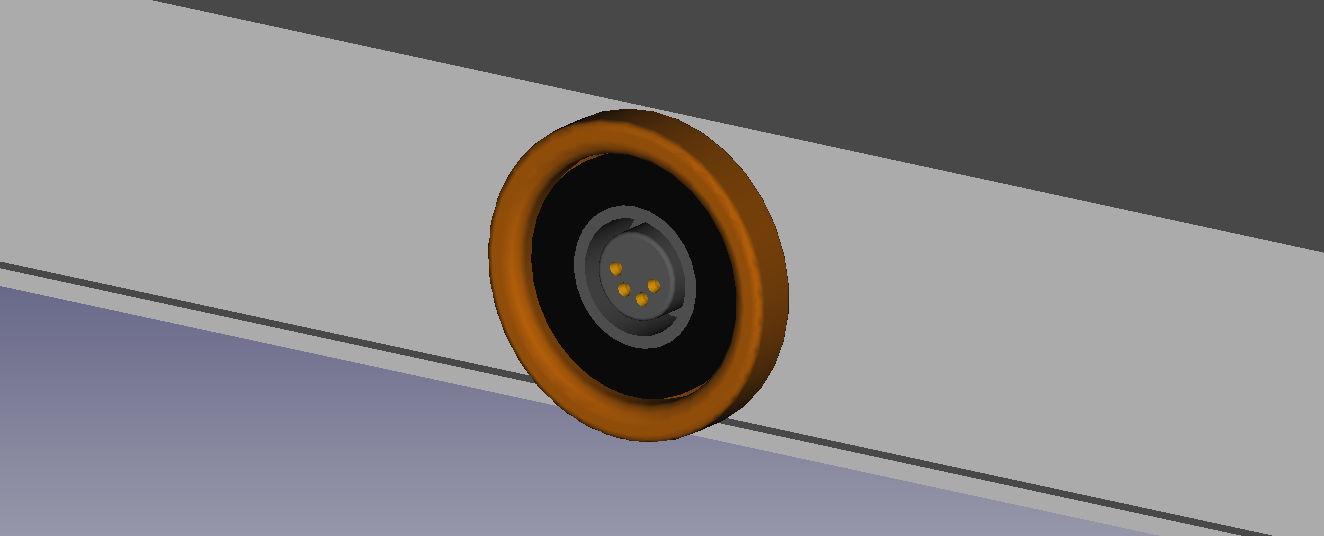
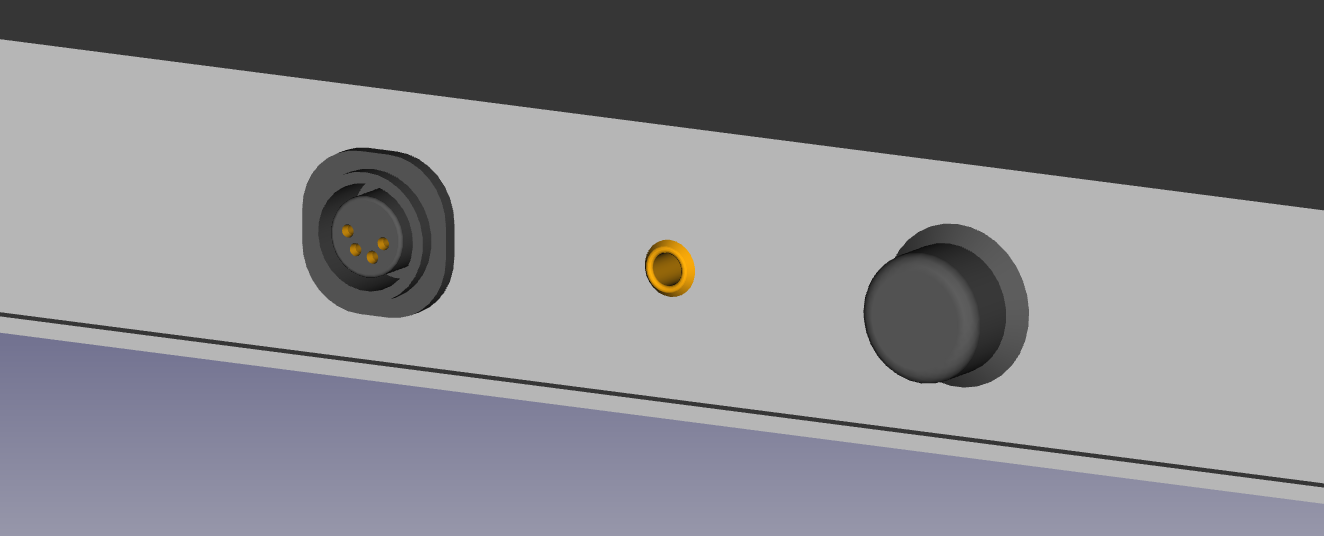
Ajout d'une prise TRS

Changed region(s): [[0.0, 0.0, 1.0, 1.0], [0.6503, 0.4179, 0.7742, 0.7463], [0.6503, 0.2687, 1.0, 0.4776]]

diff --git a/amplificateur/casque_stereo.md b/amplificateur/casque_stereo.md
@@ -16,11 +16,12 @@ title: Amplificateur pour casque stéréo
 
 * Préamplifier et amplifier le signal analogique stéréo balancé
 
-## Sortie
+## Sorties
 
-* Prise XLR-4 (4 broches)
+* Prise XLR-4 (balancée)
+* Prise TRS de 6.3 mm (non balancée)
 
 ## Design suggéré
 
 {% include img_design.html ind=1 alt="Deux entrées XLR" src="images/headphone_back.png" %}
-{% include img_design.html ind=2 alt="Une sortie XLR-4 au centre du bouton de volume" src="images/headphone_front.png" %}
+{% include img_design.html ind=2 alt="Une sortie XLR-4, une sortie TRS de 6.3 mm et un bouton de volume" src="images/headphone_front.png" %}
